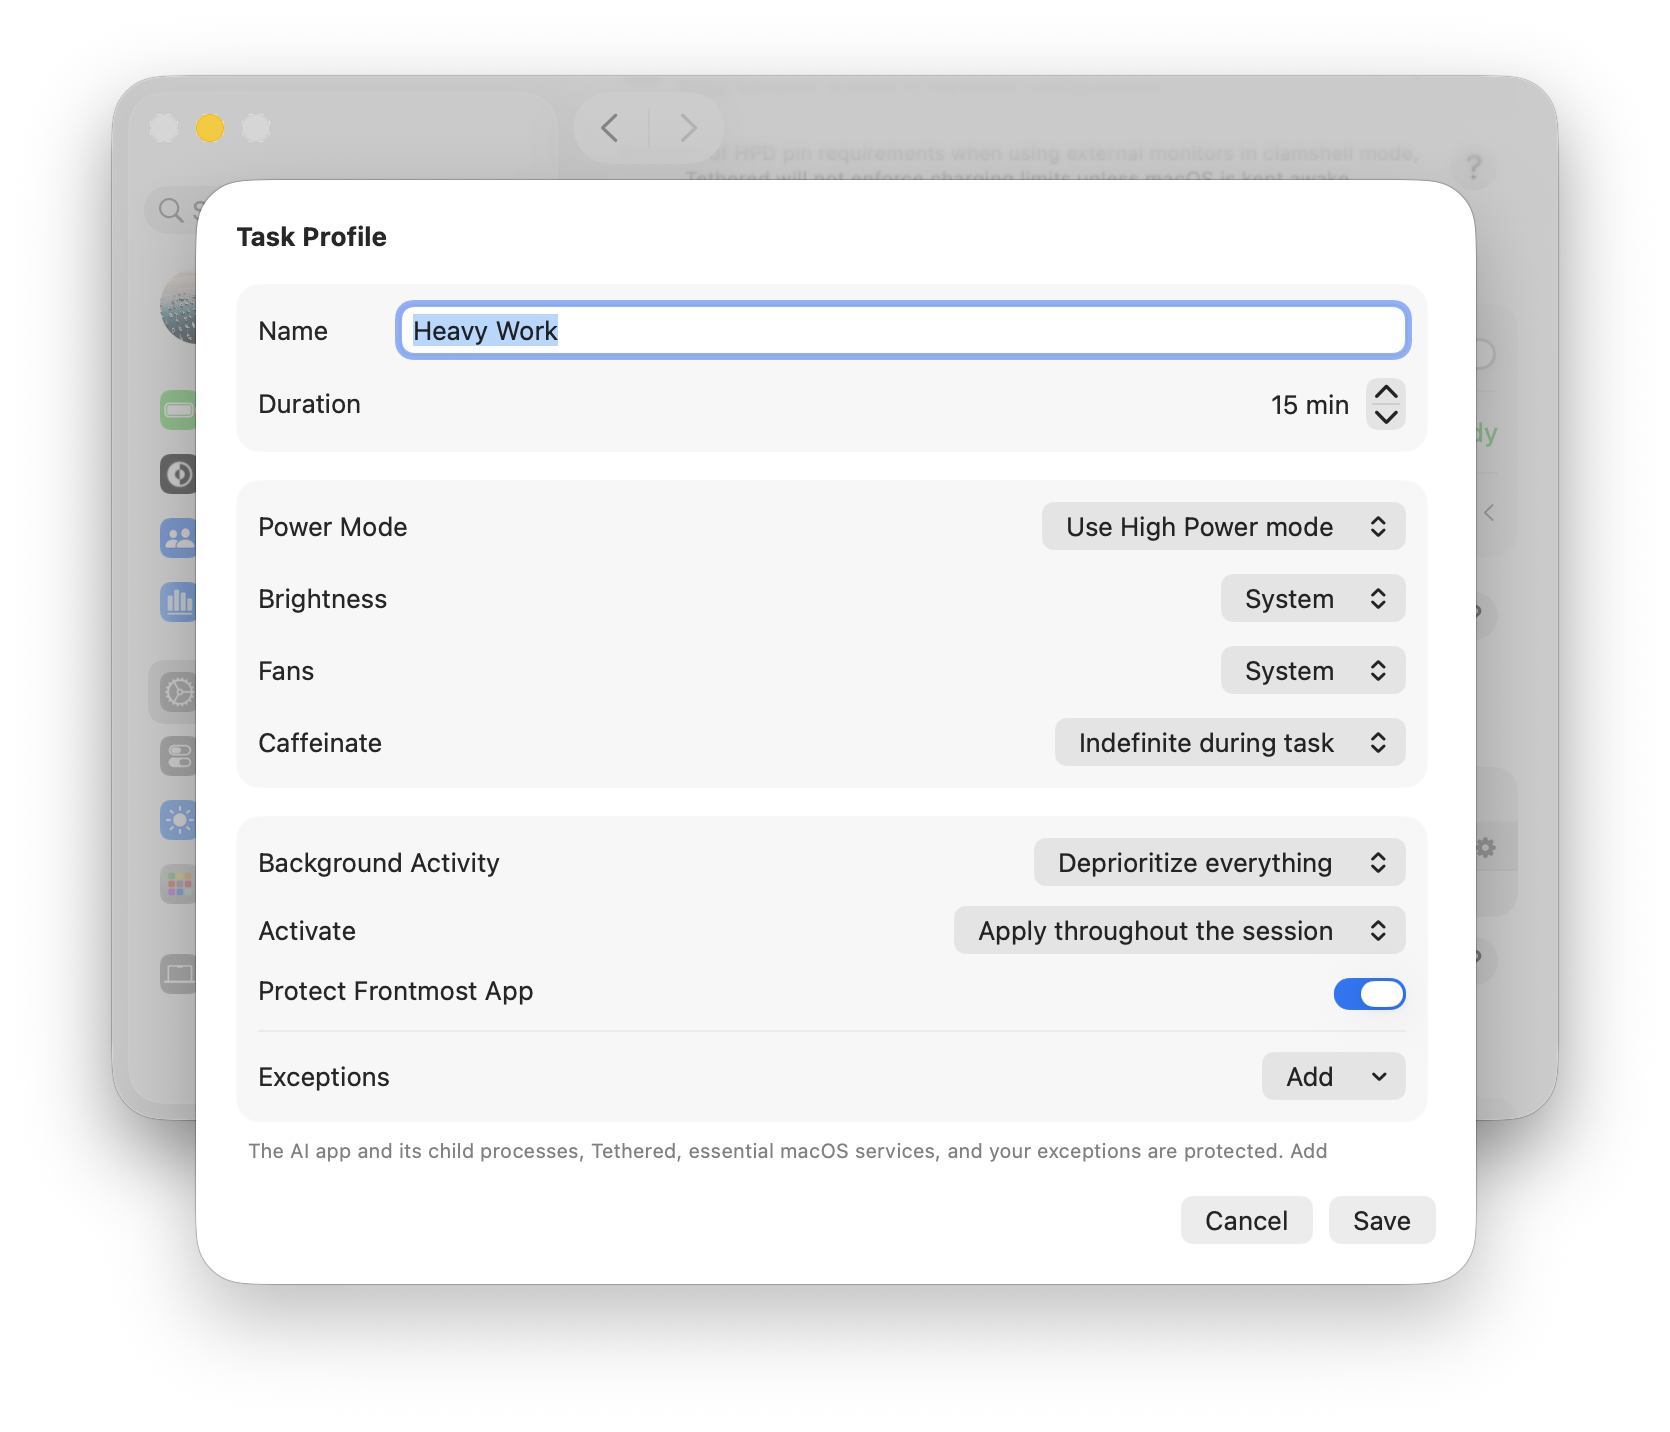
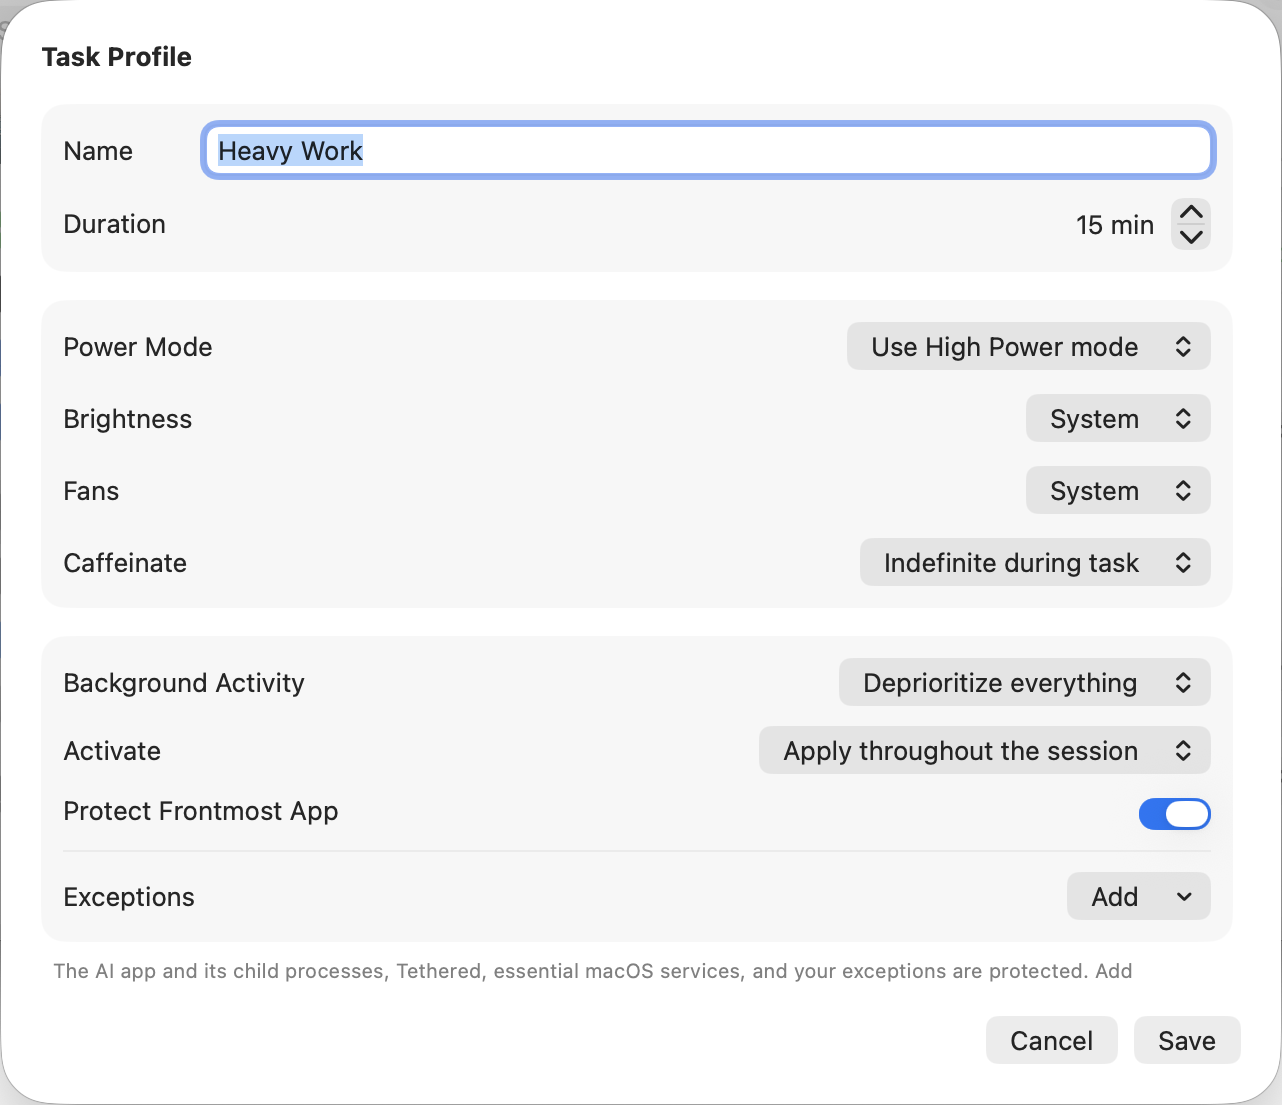
Crop README screenshots and show Tethered app

diff --git a/README.md b/README.md
@@ -66,7 +66,7 @@ Current State: [Integrations/VALIDATION.md](Integrations/VALIDATION.md)
 
 | Per-app automation | Battery history |
 | --- | --- |
-| ![Tethered per-app power, Caffeinate, brightness, and fan rules](Screenshots/apps.png) | ![Tethered battery health and charge history](Screenshots/stats.png) |
+| ![Tethered app schedule and its automated power actions](Screenshots/apps.png) | ![Tethered battery health and charge history](Screenshots/stats.png) |
 
 | Display brightness | Alerts and appearance |
 | --- | --- |
